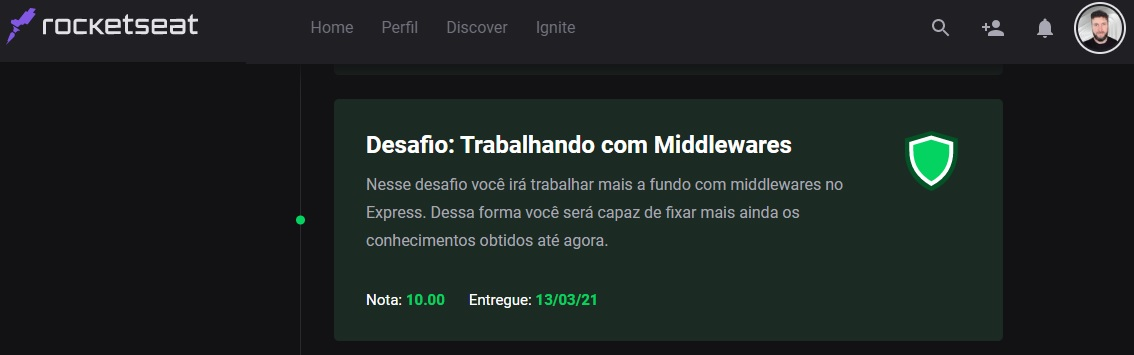
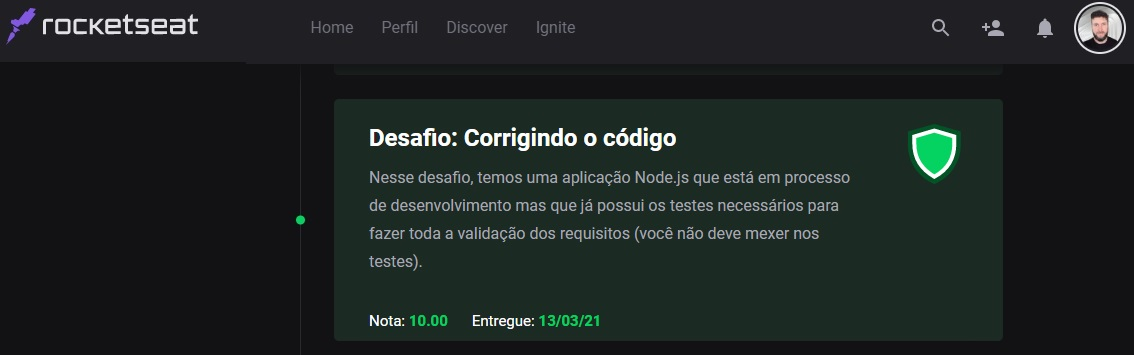
:rotating_light:challenge completed:heavy_check_mark:

diff --git a/README.md b/README.md
@@ -21,7 +21,7 @@ Após algumas alterações no código da aplicação, parte dos testes deixaram 
 - Navegue até o diretório principal do projeto
 
 ```
-> cd ignite-trabalhando-com-middlewares
+> cd ignite-corrigindo-o-codigo
 ```
 
 - Instale as dependências com o Yarn
